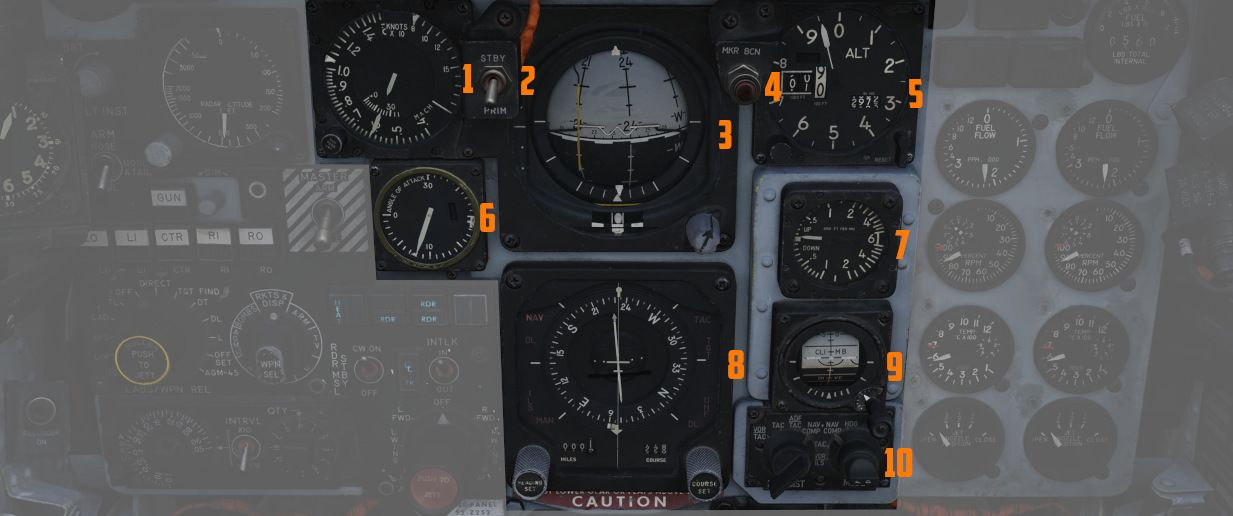
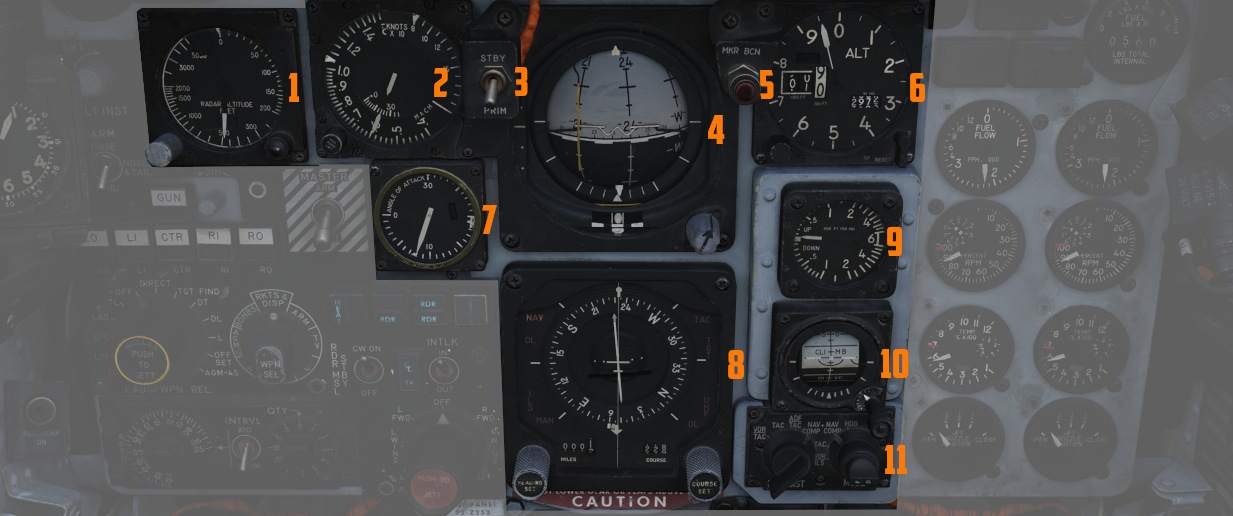
fixed weapon management and fdg overview and some minor stuff (number coloring, wording)

diff --git a/src/cockpit/pilot/weapon_management.md b/src/cockpit/pilot/weapon_management.md
@@ -6,14 +6,13 @@ This group on the left area of the main panel provides all weapon related
 settings, such as arming missiles or selecting the bomb delivery mode. It
 features a true airspeed indicator (<num>1</num>), a Head Up Display Indicator
 (<num>2</num>), a flight instrument brightness knob (<num>3</num>), the
-nose/tail arming switch (<num>5</num>), the station select buttons
-(<num>6</num>), the radar altitude altimeter (<num>4</num>), the master arm
-switch (<num>7</num>), the delivery mode knob (<num>8</num>), the weapon
-selector knob (<num>9</num>), the missile status lights (<num>10</num>), the
-radar missile power switch (<num>11</num>), the centerline tank aboard light
-(<num>12</num>), the interlock switch (<num>13</num>), the selective jettison
-control (<num>17</num>) and the AWRU controls (<num>14</num>, <num>15</num> and
-<num>16</num>).
+nose/tail arming switch (<num>4</num>), the station select buttons
+(<num>5</num>), the master arm switch (<num>6</num>), the delivery mode knob (<num>7</num>), the
+weapon selector knob (<num>8</num>), the missile status lights (<num>9</num>), the
+radar missile power switch (<num>10</num>), the centerline tank aboard light
+(<num>11</num>), the interlock switch (<num>12</num>), the selective jettison
+control (<num>16</num>) and the AWRU controls (<num>13</num>, <num>14</num> and
+<num>15</num>).
 
 ## Range Indicator
 
@@ -46,7 +45,7 @@ control as well as the current selected air-to-air weapon based on the position
 of the pinky switch on the left throttle handle.
 
 | Name  | Description                                                     |
-| ----- | --------------------------------------------------------------- |
+|-------|-----------------------------------------------------------------|
 | RADAR | Illuminates when a radar-guided air to air missile is selected. |
 | HEAT  | Illuminates when an IR-guided air to air missile is selected.   |
 | GUN   | Illuminates when the nose gun is selected.                      |
@@ -96,7 +95,7 @@ thus making them live. This function also controls selective low/high drag
 capability for retarded bombs.
 
 | Name      | Description                                                                       |
-| --------- | --------------------------------------------------------------------------------- |
+|-----------|-----------------------------------------------------------------------------------|
 | SAFE      | No arming solenoids activate; bombs release without fuzing enabled.               |
 | NOSE      | Forward and center position solenoids activate to hold arming lanyards.           |
 | TAIL      | Aft position solenoids activate to hold arming lanyards.                          |
@@ -149,21 +148,21 @@ for air-to-air weapons (including the gun). The next mode, DIRECT, is used for
 video-directed weapons such as the AGM-65 and as a direct delivery bombing mode.
 The full series of positions is as follows, clockwise from the left:
 
-| Name                                                                                                 | Description                                                                                       |
-| ---------------------------------------------------------------------------------------------------- | ------------------------------------------------------------------------------------------------- |
+| Name                                                                                             | Description                                                                                       |
+|--------------------------------------------------------------------------------------------------|---------------------------------------------------------------------------------------------------|
 | [TOSS](../../stores/air_to_ground/bombs/employment.md#instantaneous-over-the-shoulder---inst-os) | Instantaneous Over the Shoulder                                                                   |
-| [LOFT](../../stores/air_to_ground/bombs/employment.md#loft)                                          | Loft                                                                                              |
-| [O/S](../../stores/air_to_ground/bombs/employment.md#timed-over-the-shoulder---timed-os)             | (Timed) Over the Shoulder                                                                         |
-| [T LAD](../../stores/air_to_ground/bombs/employment.md#timed-low-angle-drogue-delivery---t-ladd)     | Timed LADD (Low Angle Drogue Delivery)                                                            |
-| [TL](../../stores/air_to_ground/bombs/employment.md#timed-level---tl)                                | Timed Level                                                                                       |
-| OFF                                                                                                  | Off (Air-to-Air)                                                                                  |
-| [DIRECT](../../stores/air_to_ground/bombs/employment.md#direct)                                      | Manual Direct                                                                                     |
-| [TGT FIND](../../stores/air_to_ground/bombs/employment.md#target-find---tgt-find)                    | Target Find (Nav mode and [Pave Spike](../../systems/weapon_systems/pave_spike/overview.md) only) |
-| [DT](../../stores/air_to_ground/bombs/employment.md#dive-toss---dt)                                  | Dive Toss                                                                                         |
-| [DL](../../stores/air_to_ground/bombs/employment.md#dive-laydown---dl)                               | Dive Laydown                                                                                      |
-| [L](../../stores/air_to_ground/bombs/employment.md#laydown---l)                                      | Laydown                                                                                           |
-| [OFF SET](../../stores/air_to_ground/bombs/employment.md#offset)                                     | Offset Bomb                                                                                       |
-| [AGM-45](../../stores/air_to_ground/missiles/shrike.md)                                              | [AGM-45 Shrike](../../stores/air_to_ground/missiles/shrike.md)                                    |
+| [LOFT](../../stores/air_to_ground/bombs/employment.md#loft)                                      | Loft                                                                                              |
+| [O/S](../../stores/air_to_ground/bombs/employment.md#timed-over-the-shoulder---timed-os)         | (Timed) Over the Shoulder                                                                         |
+| [T LAD](../../stores/air_to_ground/bombs/employment.md#timed-low-angle-drogue-delivery---t-ladd) | Timed LADD (Low Angle Drogue Delivery)                                                            |
+| [TL](../../stores/air_to_ground/bombs/employment.md#timed-level---tl)                            | Timed Level                                                                                       |
+| OFF                                                                                              | Off (Air-to-Air)                                                                                  |
+| [DIRECT](../../stores/air_to_ground/bombs/employment.md#direct)                                  | Manual Direct                                                                                     |
+| [TGT FIND](../../stores/air_to_ground/bombs/employment.md#target-find---tgt-find)                | Target Find (Nav mode and [Pave Spike](../../systems/weapon_systems/pave_spike/overview.md) only) |
+| [DT](../../stores/air_to_ground/bombs/employment.md#dive-toss---dt)                              | Dive Toss                                                                                         |
+| [DL](../../stores/air_to_ground/bombs/employment.md#dive-laydown---dl)                           | Dive Laydown                                                                                      |
+| [L](../../stores/air_to_ground/bombs/employment.md#laydown---l)                                  | Laydown                                                                                           |
+| [OFF SET](../../stores/air_to_ground/bombs/employment.md#offset)                                 | Offset Bomb                                                                                       |
+| [AGM-45](../../stores/air_to_ground/missiles/shrike.md)                                          | [AGM-45 Shrike](../../stores/air_to_ground/missiles/shrike.md)                                    |
 
 For further information see
 [4.3 Air-to-Ground weaponry chapter.](../../stores/air_to_ground/overview.md)
@@ -178,7 +177,7 @@ weapon firing unless a CAGE signal is active. ARM and TV positions do not affect
 tuning status of radar guided weapons. Positions are as follows:
 
 | Name        | Description                                                                                   |
-| ----------- | --------------------------------------------------------------------------------------------- |
+|-------------|-----------------------------------------------------------------------------------------------|
 | AGM-12      | [AGM-12 Bullpup](../../stores/air_to_ground/missiles/bullpup.md)                              |
 | BOMBS       | Bombs (all types).                                                                            |
 | RKTS & DISP | Rockets and dispensers.                                                                       |
@@ -308,7 +307,7 @@ parameter interlocks can prevent an AIM-7 from being launched when the trigger
 is pulled.
 
 | Name | Description                                                                                       |
-| ---- | ------------------------------------------------------------------------------------------------- |
+|------|---------------------------------------------------------------------------------------------------|
 | IN   | Interlocks engaged; range limits, ASE limits, or radar not in visual intercept inhibits launch.   |
 | OUT  | Interlocks override; AIM-7 will fire when trigger is pulled even when no launch condition is met. |
 
@@ -323,7 +322,7 @@ The pilot selects the desired position by rotating the knob and then presses the
 button on its front to jettison the selected stores.
 
 | Name     | Description                                                                                                                                                                                                     |
-| -------- | --------------------------------------------------------------------------------------------------------------------------------------------------------------------------------------------------------------- |
+|----------|-----------------------------------------------------------------------------------------------------------------------------------------------------------------------------------------------------------------|
 | OFF      | Safes PUSH TO JETT button on the Selective Jettison Control Panel.                                                                                                                                              |
 | STORES   | Releases all MER/TER, single carried, LAU-88 mounted rounds, or drop tanks currently selected on the station buttons upon PUSH TO JETT.                                                                         |
 | L/R FWD  | Jettisons [AIM-7](../../stores/air_to_air/aim_7.md) from respective position on PUSH TO JETT. Inhibited if CL TK ON.                                                                                            |

diff --git a/src/systems/emergency.md b/src/systems/emergency.md
@@ -22,7 +22,7 @@ for a comapct list of them or see the one below:
 | L Aux Air Door       | The light will illuminate when the left auxiliary air door operates out of phase with the landing gear handle.                                                                                                  | R Aux Air Door      | The light will illuminate when the right auxiliary air door operates out of phase with the landing gear handle.                              | Speedbrake out       | The light will illuminate if the speed brake is out or not fully closed.                                                                                |
 | Windshield Temp High | The light will illuminate when the windshield approaches a temperature which will cause optical distortion while the windshield rain removal is used. Windshield rain removal should be turned off immediately. | Duct Temp High      | The light will illuminate when the temperature within the engine intake duct is beyond allowable limits.                                     | Check Hyd Gauges     | The light will illuminate if the pressure of any system drops below 1500 ± 100 psi.                                                                    |
 | Slats In             | The light will illuminate if the Slats Override Switch is placed to the IN position, forcing the slats to stop moving as a function of the AOA.                                                                 | Pitch Aug Off       | The light will illuminate when power is on the airplane and the pitch stab aug switch is not engaged.                                        | Cabin Turb Overspeed | The light will illuminate if the cabin turbine of the refrigeration unit is subjected to pressures and temperatures in excess of the normal operation.  |
-| Inertial Nav Sys Out | The light will illuminate if the Inertial Navigation system is either out or off.                                                                                                                               | Tank 7 Full         |                                                                                                                                              |                      |                                                                                                                                                         |
+| Inertial Nav Sys Out | The light will illuminate if the Inertial Navigation system is either out or off.                                                                                                                               | Tank 7 Fuel         | The light will illuminate when the fuel transfer valve fails to open.                                                                        |                      |                                                                                                                                                         |
 | Oxygen Low           | The light will illuminate when the oxygen amount is below 1 litre.                                                                                                                                              |                     |                                                                                                                                              | Fire Sys             | The light illuminates when either a fire/overheat detector sensor tube is burned through, a detector wire chafes to ground or the control module fails. |
 
 ### Master Caution

diff --git a/src/cockpit/pilot/right_sub_panel.md b/src/cockpit/pilot/right_sub_panel.md
@@ -71,7 +71,7 @@ those that do not will be noted.
 | L Aux Air Door       | The light will illuminate when the left auxiliary air door operates out of phase with the landing gear handle.                                                                                                  | R Aux Air Door      | The light will illuminate when the right auxiliary air door operates out of phase with the landing gear handle.                              | Speedbrake out       | The light will illuminate if the speed brake is out or not fully closed.                                                                                |
 | Windshield Temp High | The light will illuminate when the windshield approaches a temperature which will cause optical distortion while the windshield rain removal is used. Windshield rain removal should be turned off immediately. | Duct Temp High      | The light will illuminate when the temperature within the engine intake duct is beyond allowable limits.                                     | Check Hyd Gauges     | The light will illuminate if the pressure of any system drops below 1500 ± 100 psi.                                                                     |
 | Slats In             | The light will illuminate if the Slats Override Switch is placed to the IN position, forcing the slats to stop moving as a function of the AOA.                                                                 | Pitch Aug Off       | The light will illuminate when power is on the airplane and the pitch stab aug switch is not engaged.                                        | Cabin Turb Overspeed | The light will illuminate if the cabin turbine of the refrigeration unit is subjected to pressures and temperatures in excess of the normal operation.  |
-| Inertial Nav Sys Out | The light will illuminate if the Inertial Navigation system is either out or off.                                                                                                                               | Tank 7 Full         | The light will illuminate if Tank 7 is filled during air-to-air Refueling.                                                                   |                      |                                                                                                                                                         |
+| Inertial Nav Sys Out | The light will illuminate if the Inertial Navigation system is either out or off.                                                                                                                               | Tank 7 Fuel         | The light will illuminate if Tank 7 fuel transfer valve fails to open.                                                                       |                      |                                                                                                                                                         |
 | Oxygen Low           | The light will illuminate when the oxygen amount is below 1 litre.                                                                                                                                              |                     |                                                                                                                                              | Fire Sys             | The light illuminates when either a fire/overheat detector sensor tube is burned through, a detector wire chafes to ground or the control module fails. |
 
 ## Light Circuit Breakers

diff --git a/src/systems/defensive_systems/ecm.md b/src/systems/defensive_systems/ecm.md
@@ -27,8 +27,8 @@ be equipped on the right inboard pylon (station 6).
 The electronic counter-measurement systems are all controlled by
 the WSO via controls on the right sub-panel.
 
-The controls are duplicated for any pod carried on the left stations (4 or 2)
-and for the right stations (6 and 8) respectively.
+The controls are duplicated for any pod carried on the left stations (<num>4</num> or <num>2</num>)
+and for the right stations (<num>6</num> and <num>8</num>) respectively.
 
 Interpretation of the modes, techniques and exact operation of the lights (<num>3</num>)
 depend on the loaded jammer model.
@@ -36,7 +36,7 @@ depend on the loaded jammer model.
 Generally, the jammers differentiate between two modes or techniques that can be used.
 Both of which usually have a warmup phase indicated by the Standby Lights on the panel.
 
-The knob (1 and 4) can be used to place either technique in Standby or, once ready,
+The knob (<num>1</num> and <num>4</num>) can be used to place either technique in Standby or, once ready,
 activate transmission (XMIT 1, XMIT 2, BOTH).
 
 Some jammers models can also detect that they are actively jamming an enemy radar,
@@ -49,7 +49,7 @@ indicated by the AI light.
 
 ![ecm](../../img/wso_ecm_reset_button.jpg)
 
-The reset lamp (3 lowest red one), if lit, indicates a fault in the jammer system.
+The reset lamp (<num>3</num> lowest red one), if lit, indicates a fault in the jammer system.
 Flashing indicates an overheating condition, in which case the pod
 should be turned off to prevent damage.
 

diff --git a/src/cockpit/pilot/flight_director_group.md b/src/cockpit/pilot/flight_director_group.md
@@ -3,12 +3,12 @@
 ![FDG](../../img/pilot_flight_director_group_overview.jpg)
 
 The flight director group provides the pilot with all necessary instruments to fly the aircraft even
-in a bad weather situation. It contains the Barometric Altimeter (<num>1</num>), the Angle of Attack
-indexer (<num>6</num>), the Reference System Selector switch (<num>2</num>), the Attitude Director
-Indicator (<num>3</num>), the Marker Beacon Lamp (<num>4</num>), the barometric altimeter
-(<num>5</num>), the Horizontal Situation Indicator (<num>8</num>), the Vertical
-Velocity indicator (<num>7</num>), the Standby Attitude indicator (<num>9</num>) and the Navigation
-function selector panel (<num>10</num>).
+in a bad weather situation. It contains the Radar Altimeter (<num>1</num>), the Airspeed and Mach
+Indicator (<num>2</num>), the Reference System Selector Switch (<num>3</num>), the Attitude Director
+Indicator (<num>4</num>), the Marker Beacon Lamp (<num>5</num>), the Barometric Altimeter (<num>
+6</num>), the Angle of Attack Indicator (<num>7</num>), the Horizontal Situation Indicator (<num>
+8</num>), the Vertical Velocity Indicator (<num>9</num>), the Standby Attitude Indicator (<num>
+10</num>) and the Navigation Function Selector Panel (<num>11</num>).
 
 ## Radar Altimeter
 

diff --git a/src/systems/nav_com/ins.md b/src/systems/nav_com/ins.md
@@ -276,14 +276,14 @@ at a known fix location.
 
 ![wso_nav_panel_pos_update_switch](../../img/wso_nav_panel_pos_update_switch.jpg)
 
-1. On arrival, the Position Update Switch is placed in the SET position. Doing
+1. Prior to arrival at the fix point the Position Update Fix is placed in SET position. Doing
    so disengages the longitude and latitude position counters.
 
 2. The position longitude and latitude counters are set using their respective
    knobs for the know location.
 
-3. Prior to arrival at the fix point, the Position Update Switch is placed and
-   held in the FIX position.
+3. Directly before overflying the fix point the Position Update Switch is placed and held in the FIX
+   position.
 
 4. Upon direct flyover of the fix point, the Position Update Switch is released,
    allowing it to fall back into NORMAL.

diff --git a/src/systems/radar/air_to_air.md b/src/systems/radar/air_to_air.md
@@ -178,10 +178,10 @@ missile envelope. There are three possible strobe types.
 
 ![Target in Rmax](../../img/radar_target_in_rmax.jpg)
 
-All ranges are calculated for the point the Bomb Button is pressed and hold down
+All ranges are calculated for the point the Trigger is pressed and hold down
 for release, not the point where the actual release signal is send a few seconds
-later. This means if the missile envelope is met on the display, then the Bomb
-Button can be pressed and the envelope will be valid for missile launch.
+later. This means if the missile envelope is met on the display, then the Trigger can be pressed and
+the envelope will be valid for missile launch.
 
 ### Allowable Steering Error (ASE) Circle
 

diff --git a/src/emergency_procedures/in_flight.md b/src/emergency_procedures/in_flight.md
@@ -87,7 +87,7 @@ If neither engine can be started:
 |----|-------|----|
 | 9. | Eject |    |
 
-## ENGINE FIRE OR OVERHEAD DURING FLIGHT
+## ENGINE FIRE OR OVERHEAT DURING FLIGHT
 
 | Step | System/Condition                                                | Action                    |
 |------|-----------------------------------------------------------------|---------------------------|
